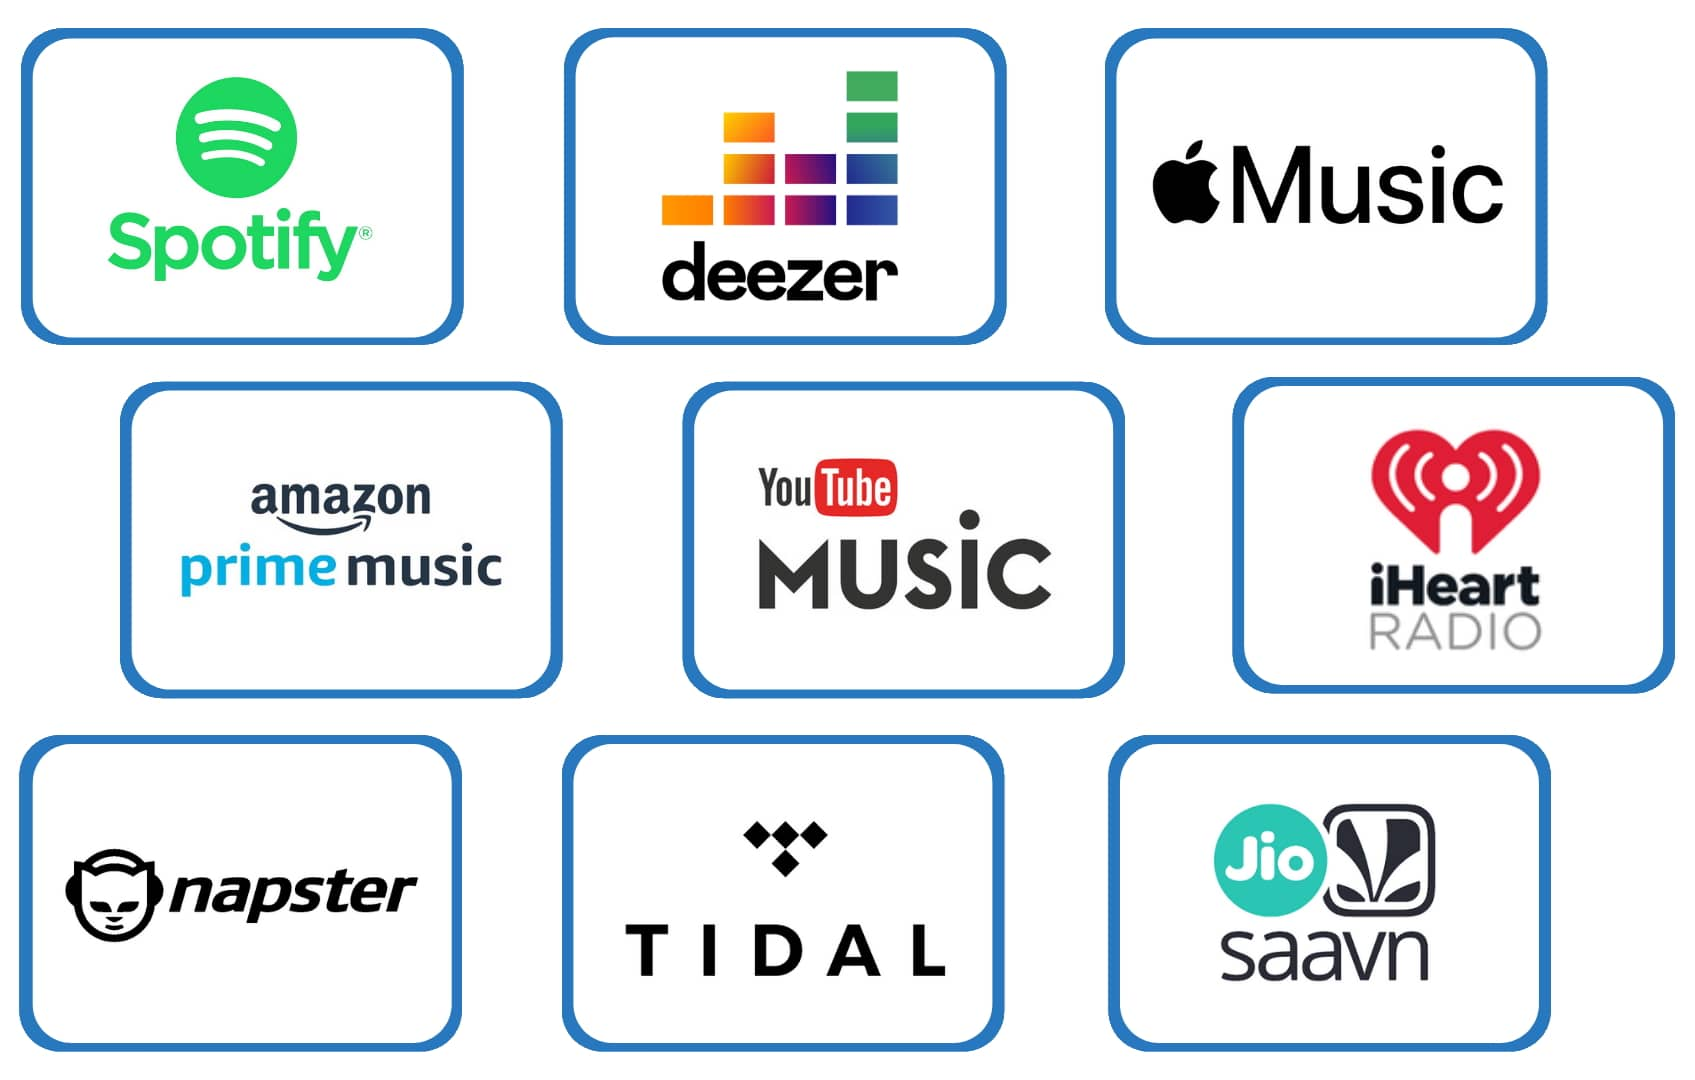
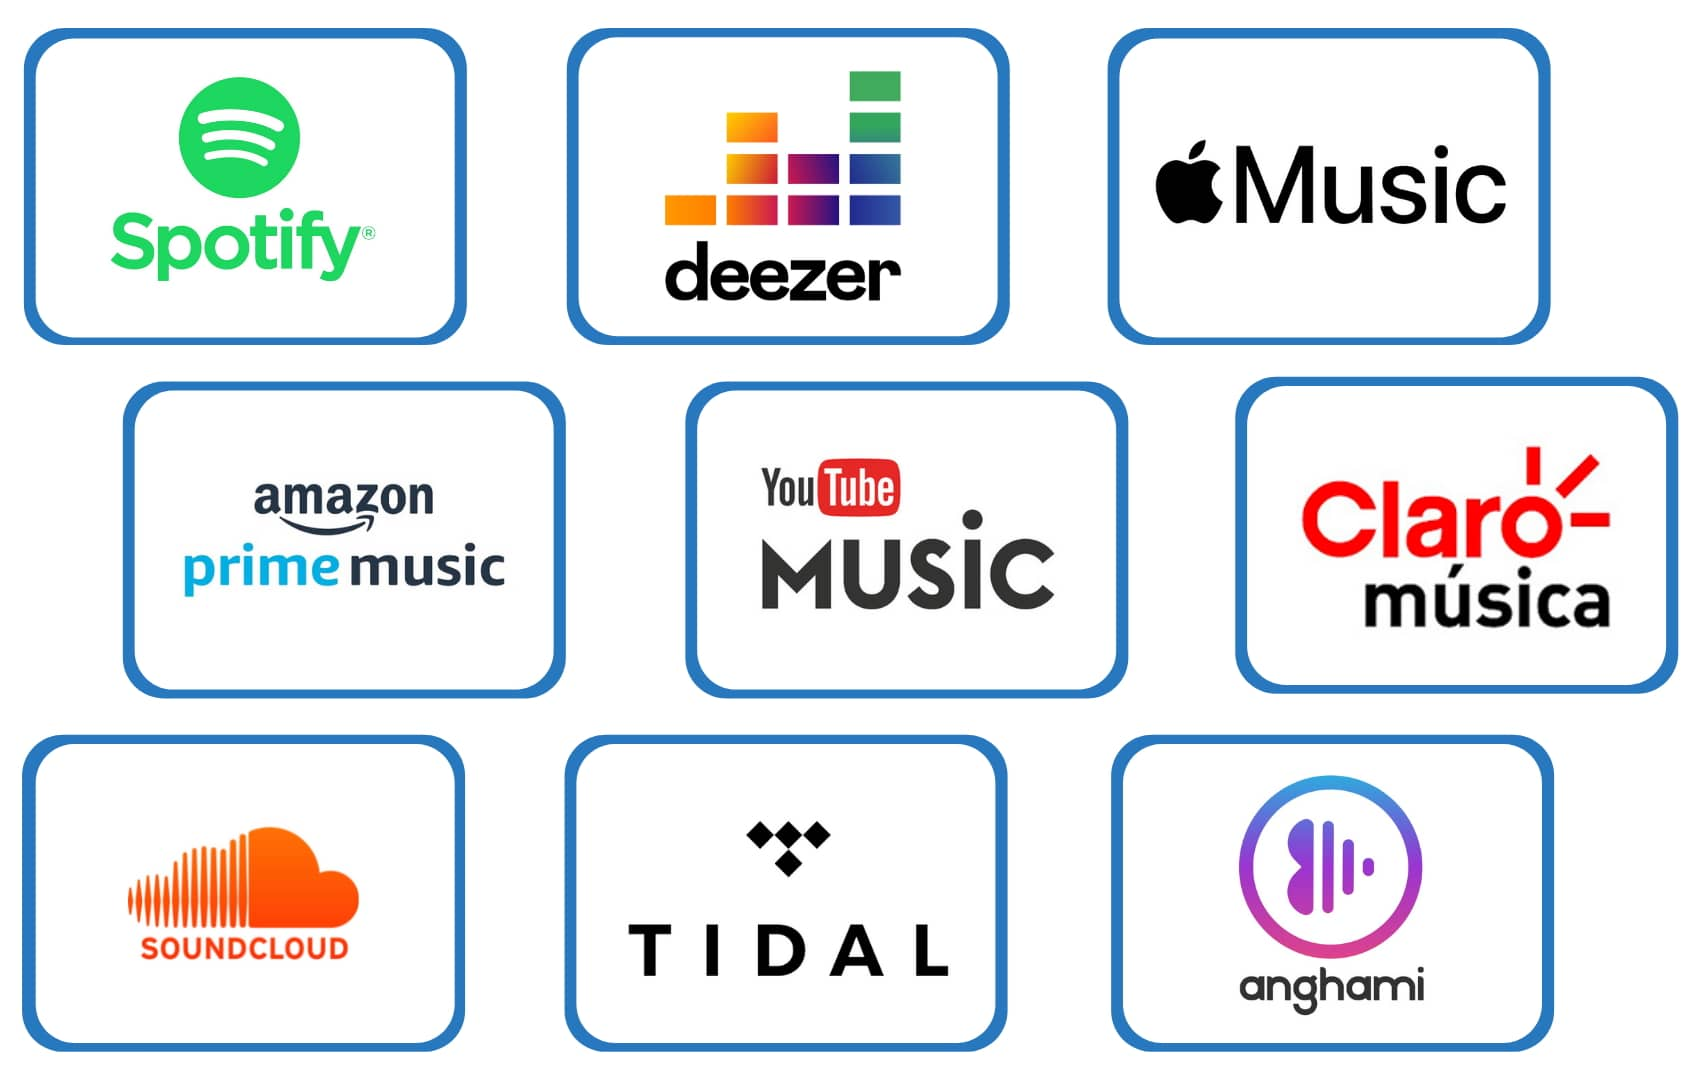
update img

diff --git a/index.html b/index.html
@@ -52,7 +52,7 @@
 	<meta property="og:description" content="Donate a Beat lets you donate to causes you care about by just listening to music">
 	<meta property="og:url" content="./">
 	<meta property="og:site_name" content="Donate a Beat">
-	<meta property="article:modified_time" content="2021-09-14T04:11:28+00:00">
+	<meta property="article:modified_time" content="2021-09-14T14:43:40+00:00">
 	<meta property="og:image" content="./wp-content/uploads/2021/09/enjoying_music-1.jpg">
 	<meta property="og:image:width" content="1700">
 	<meta property="og:image:height" content="1080">
@@ -105,7 +105,7 @@
 	                "@id": "./#primaryimage"
 	            },
 	            "datePublished": "2021-08-30T15:32:50+00:00",
-	            "dateModified": "2021-09-14T04:11:28+00:00",
+	            "dateModified": "2021-09-14T14:43:40+00:00",
 	            "description": "Donate to causes you care about by just listening to music. Donate a Beat lets you support your favorite charity without spending a dime.",
 	            "breadcrumb": {
 	                "@id": "./#breadcrumb"
@@ -167,7 +167,7 @@ img.emoji {
 <style id="elementor-frontend-inline-css">@font-face{font-family:eicons;src:url(./wp-content/plugins/elementor/assets/lib/eicons/fonts/eicons.eot?5.10.0);src:url(./wp-content/plugins/elementor/assets/lib/eicons/fonts/eicons.eot?5.10.0#iefix) format("embedded-opentype"),url(./wp-content/plugins/elementor/assets/lib/eicons/fonts/eicons.woff2?5.10.0) format("woff2"),url(./wp-content/plugins/elementor/assets/lib/eicons/fonts/eicons.woff?5.10.0) format("woff"),url(./wp-content/plugins/elementor/assets/lib/eicons/fonts/eicons.ttf?5.10.0) format("truetype"),url(./wp-content/plugins/elementor/assets/lib/eicons/fonts/eicons.svg?5.10.0#eicon) format("svg");font-weight:400;font-style:normal}</style>
 <link rel="stylesheet" id="elementor-post-5-css" href="./wp-content/uploads/elementor/css/post-5.css?ver=1631532607" media="all">
 <link rel="stylesheet" id="elementor-global-css" href="./wp-content/uploads/elementor/css/global.css?ver=1631545441" media="all">
-<link rel="stylesheet" id="elementor-post-2-css" href="./wp-content/uploads/elementor/css/post-2.css?ver=1631592690" media="all">
+<link rel="stylesheet" id="elementor-post-2-css" href="./wp-content/uploads/elementor/css/post-2.css?ver=1631630622" media="all">
 <script src="./wp-content/themes/twentytwenty/assets/js/index.js?ver=1.8" id="twentytwenty-js-js" async></script>
 <script src="./wp-includes/js/jquery/jquery.min.js?ver=3.6.0" id="jquery-core-js"></script>
 <script src="./wp-includes/js/jquery/jquery-migrate.min.js?ver=3.3.2" id="jquery-migrate-js"></script>
@@ -370,7 +370,7 @@ img.emoji {
 				</div>
 				<div class="elementor-element elementor-element-1dc5f69 elementor-widget elementor-widget-heading" data-id="1dc5f69" data-element_type="widget" data-widget_type="heading.default">
 				<div class="elementor-widget-container">
-			<p class="elementor-heading-title elementor-size-default">Search and subscribe to "Donate a Beat" on your preferred music streaming app.<br><br>We're present on 150+ apps including your favorites like Spotify, Apple Music, Youtube Music, Prime Music and more.</p>		</div>
+			<p class="elementor-heading-title elementor-size-default">Search and subscribe to "Donate a Beat" on your preferred music streaming app.<br><br>We're present on all your favorite apps like Spotify, Apple Music, Youtube Music, Prime Music and more.</p>		</div>
 				</div>
 				<div class="elementor-element elementor-element-d82e677 elementor-align-left elementor-mobile-align-center elementor-hidden-desktop elementor-hidden-tablet elementor-hidden-mobile elementor-widget elementor-widget-button" data-id="d82e677" data-element_type="widget" data-widget_type="button.default">
 				<div class="elementor-widget-container">
@@ -389,7 +389,7 @@ img.emoji {
 			<div class="elementor-widget-wrap elementor-element-populated">
 								<div class="elementor-element elementor-element-6c773a8 elementor-widget elementor-widget-image" data-id="6c773a8" data-element_type="widget" data-widget_type="image.default">
 				<div class="elementor-widget-container">
-															<img width="1695" height="1080" src="./wp-content/uploads/2021/09/streaming_services.jpg" class="attachment-full size-full" alt="donate with streaming music services" loading="lazy" srcset="./wp-content/uploads/2021/09/streaming_services.jpg 1695w, ./wp-content/uploads/2021/09/streaming_services-300x191.jpg 300w, ./wp-content/uploads/2021/09/streaming_services-1024x652.jpg 1024w, ./wp-content/uploads/2021/09/streaming_services-768x489.jpg 768w, ./wp-content/uploads/2021/09/streaming_services-1536x979.jpg 1536w, ./wp-content/uploads/2021/09/streaming_services-1200x765.jpg 1200w" sizes="(max-width: 1695px) 100vw, 1695px">															</div>
+															<img width="1707" height="1080" src="./wp-content/uploads/2021/09/streaming_services.jpg" class="attachment-full size-full" alt="donate by streaming music" loading="lazy" srcset="./wp-content/uploads/2021/09/streaming_services.jpg 1707w, ./wp-content/uploads/2021/09/streaming_services-300x190.jpg 300w, ./wp-content/uploads/2021/09/streaming_services-1024x648.jpg 1024w, ./wp-content/uploads/2021/09/streaming_services-768x486.jpg 768w, ./wp-content/uploads/2021/09/streaming_services-1536x972.jpg 1536w, ./wp-content/uploads/2021/09/streaming_services-1200x759.jpg 1200w" sizes="(max-width: 1707px) 100vw, 1707px">															</div>
 				</div>
 					</div>
 		</div>
